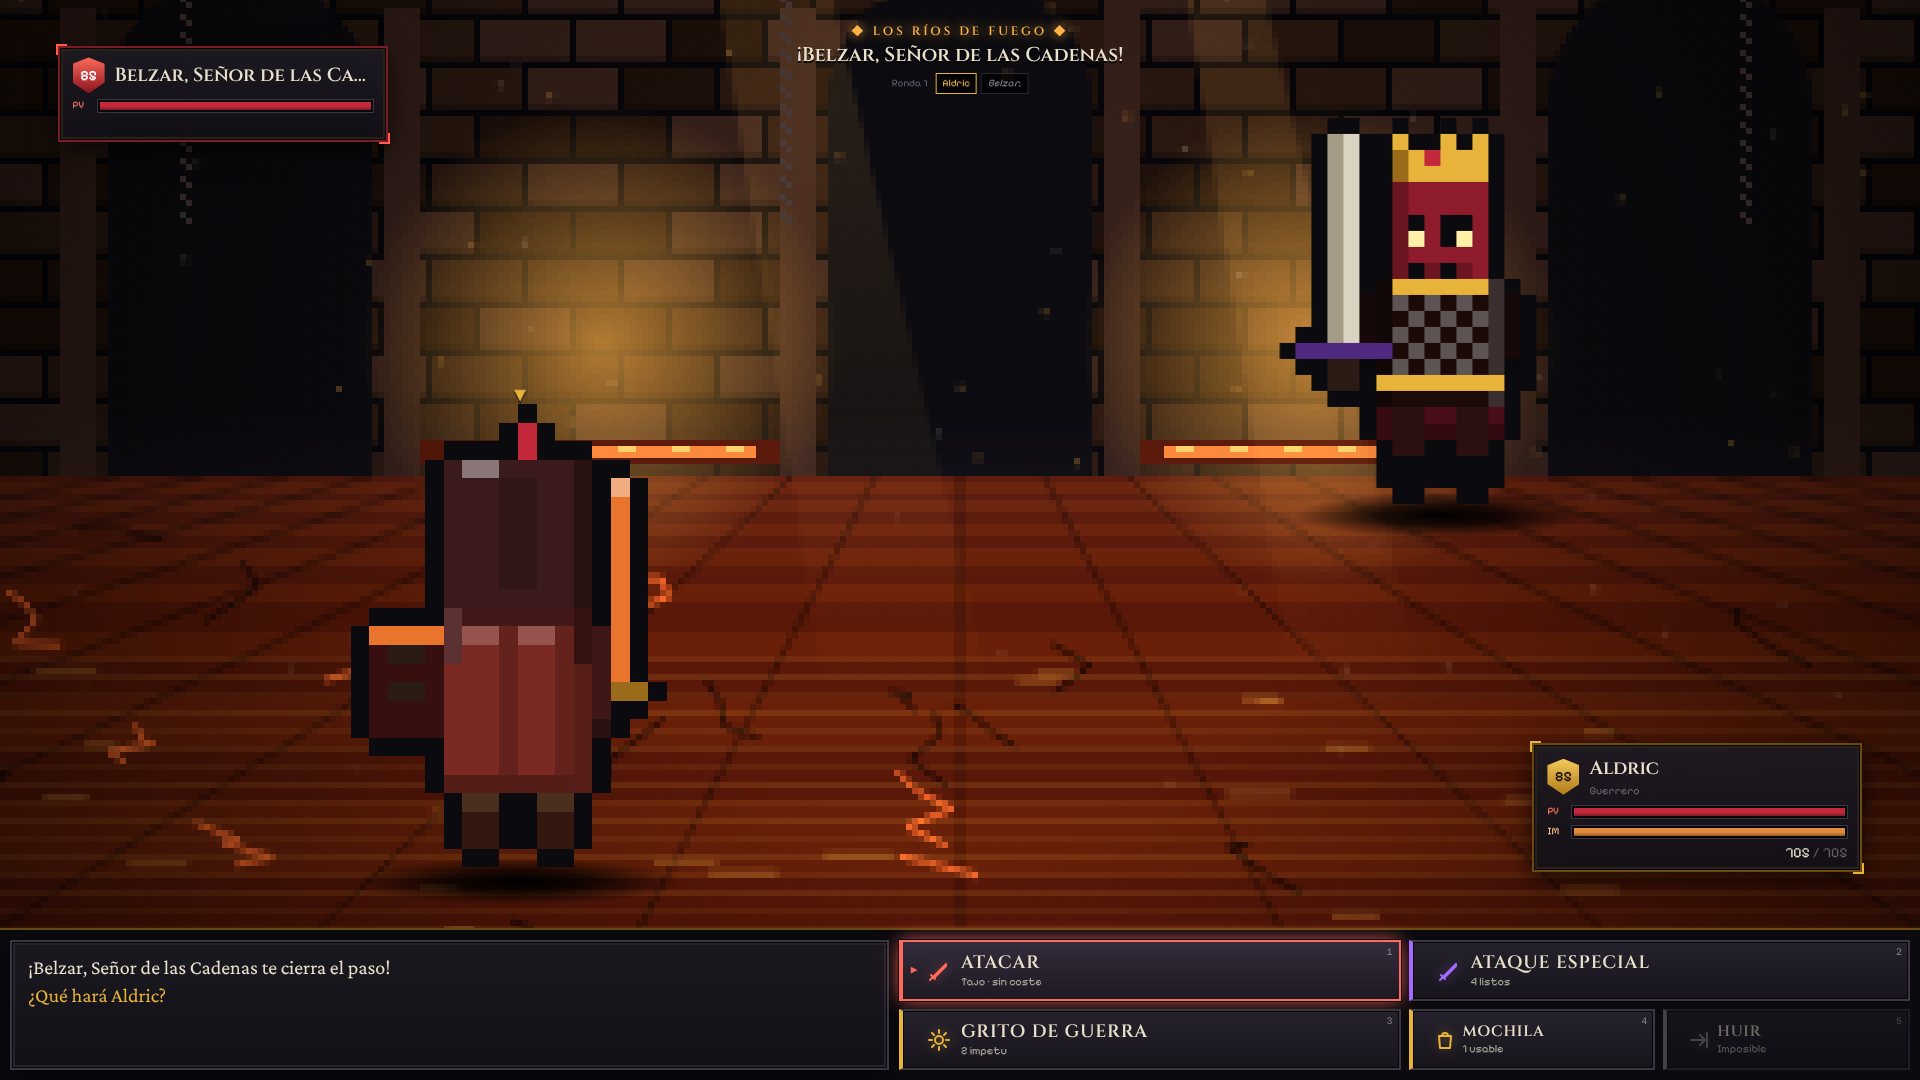
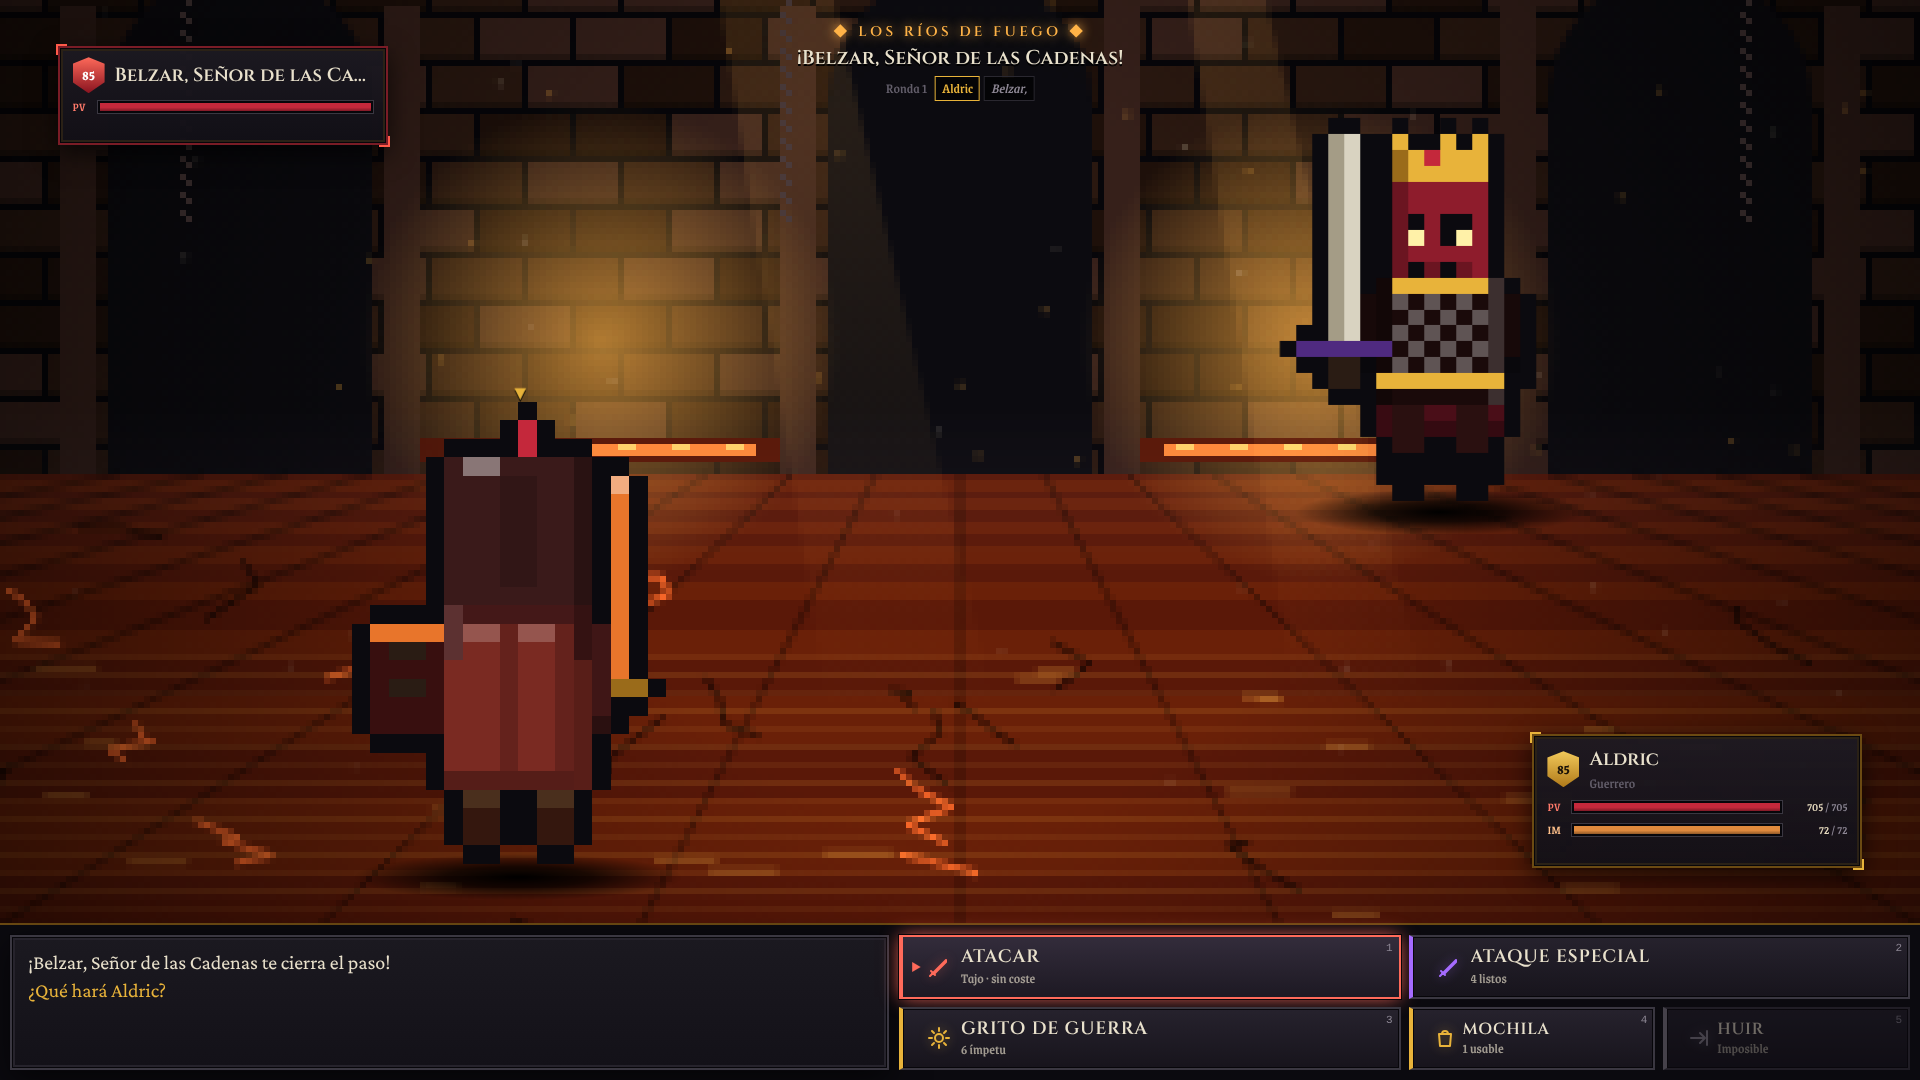
Crypt Raiders (Version 0.9.9)

diff --git a/src/legal/texts.tsx b/src/legal/texts.tsx
@@ -77,7 +77,7 @@ export const AVISO: PageDef = {
     </> },
     { id: 'propiedad', title: 'Propiedad intelectual e industrial', body: <>
       <p>El juego Crypt Raiders, su nombre, el mundo de VarkHollow, los logotipos, los gráficos en pixel art, los textos, la música, los sonidos, el tráiler y el código de esta web pertenecen al titular, salvo que se indique lo contrario. Está prohibido reproducirlos, distribuirlos, transformarlos o comunicarlos públicamente sin su autorización, salvo para uso personal y para compartir enlaces o capturas citando la fuente.</p>
-      <p>Algunos elementos son de terceros y se usan con su licencia: las tipografías Cinzel, Crimson Pro, Pixelify Sans y Jersey 10 (SIL Open Font License) y las bibliotecas de software libre con las que está hecha la web (por ejemplo React y Phaser, con licencia MIT).</p>
+      <p>Algunos elementos son de terceros y se usan con su licencia: las tipografías Cinzel, Crimson Pro y Grenze (SIL Open Font License) y las bibliotecas de software libre con las que está hecha la web (por ejemplo React y Phaser, con licencia MIT).</p>
     </> },
     { id: 'responsabilidad', title: 'Exclusión de responsabilidad', body: <>
       <p>El titular intenta que la web y la alpha funcionen bien y estén siempre disponibles, pero no lo garantiza: puede haber interrupciones, errores o pérdidas de progreso. En la medida en que lo permita la ley, el titular no responde de los daños que se deriven de ello, ni del mal uso que otras personas hagan de la web.</p>

diff --git a/src/shared/theme.css b/src/shared/theme.css
@@ -4,25 +4,15 @@
 @import "@fontsource/crimson-pro/400.css";
 @import "@fontsource/crimson-pro/400-italic.css";
 @import "@fontsource/crimson-pro/600.css";
-@import "@fontsource/pixelify-sans/400.css";
-@import "@fontsource/pixelify-sans/600.css";
-
-/* Cifras: en Pixelify Sans el 5 se parece a la S y al 2. Solo los números (0-9) van en Jersey 10 (SIL OFL),
-   ajustada al tamaño de Pixelify. Se aplica sola a todo el texto pixelado, sin tocar cada texto. */
-@font-face {
-  font-family: "Cifras";
-  font-style: normal;
-  font-weight: 100 900;
-  font-display: swap;
-  src: url("./fonts/jersey-10-latin-400-normal.woff2") format("woff2");
-  unicode-range: U+0030-0039;
-  size-adjust: 135%;
-}
+@import "@fontsource/grenze/500.css";
+@import "@fontsource/grenze/600.css";
+@import "@fontsource/grenze/700.css";
 
 @theme {
   --font-display: "Cinzel", serif;
   --font-body: "Crimson Pro", Georgia, serif;
-  --font-pixel: "Cifras", "Pixelify Sans", monospace;
+  /* Letra de la interfaz (botones, etiquetas y datos). Se llamaba «pixel» cuando era Pixelify Sans; ahora es Grenze. */
+  --font-pixel: "Grenze", Georgia, serif;
   --color-void: #07060a;
   --color-crypt: #0f0d14;
   --color-stone-900: #15131a;
@@ -52,3 +42,6 @@
   image-rendering: pixelated;
   image-rendering: crisp-edges;
 }
+
+/* Números a la misma altura en Grenze y Crimson Pro (por defecto llevan cifras de estilo antiguo, que bajan de la línea) */
+html { font-variant-numeric: lining-nums; }

diff --git a/docs/estado-trabajo.md b/docs/estado-trabajo.md
@@ -431,12 +431,13 @@ sin sección ni botón de Windows, tráiler de 60 s.
 - Ventana del botín con aliado: el aviso explica la marca de la barra y que repartir rebaja lo que pide en el portal.
 
 ## Legibilidad de textos — HECHO el 5/11 (commit pendiente del usuario)
-- Números: en Pixelify Sans el 5 parecía una S. Las cifras 0-9 van ahora en Jersey 10 (fuente «Cifras» en shared/theme.css
-  con unicode-range y size-adjust; archivo en src/shared/fonts). Se aplica sola a todo el texto pixelado (juego y landing).
+- Tipografías: solo tres. Cinzel (títulos), Crimson Pro (textos largos) y Grenze (interfaz: botones, etiquetas y datos),
+  que sustituye a Pixelify Sans (el 5 parecía una S). La variable sigue llamándose --font-pixel (shared/theme.css).
+  Números a la misma altura con font-variant-numeric: lining-nums. Se quitaron Pixelify Sans y Jersey 10.
 - Tamaños mínimos (game.css, bloque «Legibilidad»): las tallas de 9-12 px y text-xs pasan a 14 px; text-sm, 13 y 14 px a 16 px;
   text-base a 17 px. En pantallas bajas (móvil en horizontal) 12/14/16 px. También suben chips, etiquetas de servicios,
   barras del combate, accesos rápidos y la lista de atributos del Alijo.
-- Créditos de tipografías en las páginas legales (Jersey 10, SIL OFL). Capturas: node scripts/legibilidad-shots.cjs <url>/play/ <carpeta> [antes].
+- Créditos de tipografías en las páginas legales (Cinzel, Crimson Pro y Grenze, SIL OFL). Capturas: node scripts/legibilidad-shots.cjs <url>/play/ <carpeta> [antes].
 
 ## Encargos guardados
 - Skins de traje completo: HECHO (docs/plan-skins.md, maquetas en mockups/skins).
